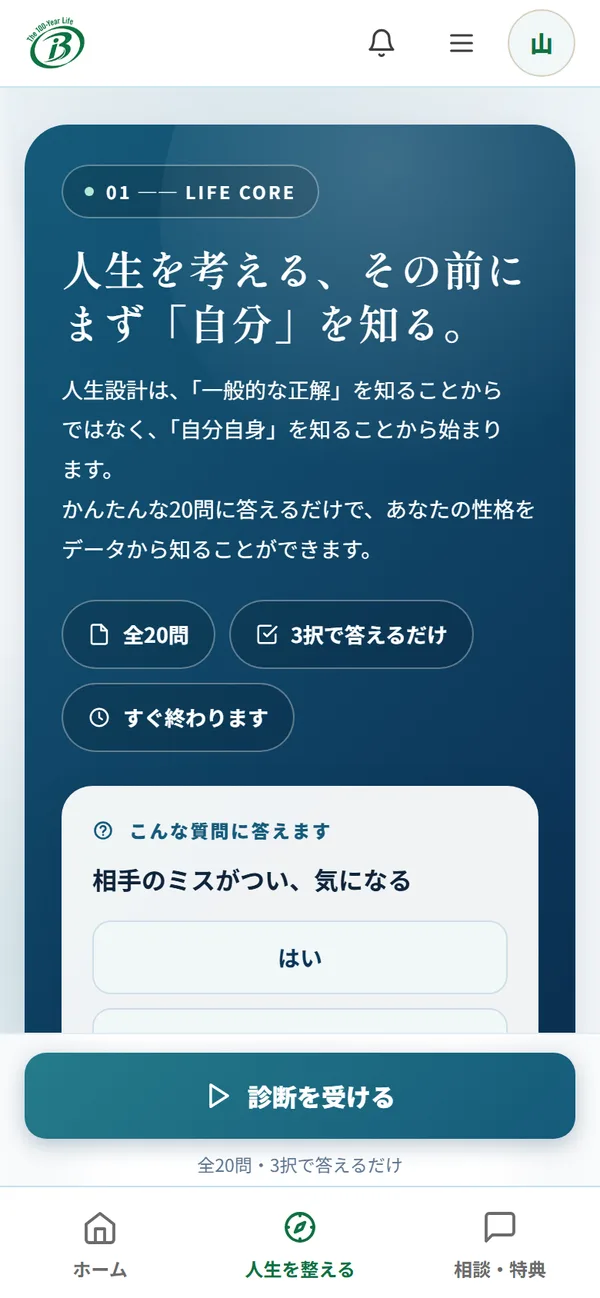
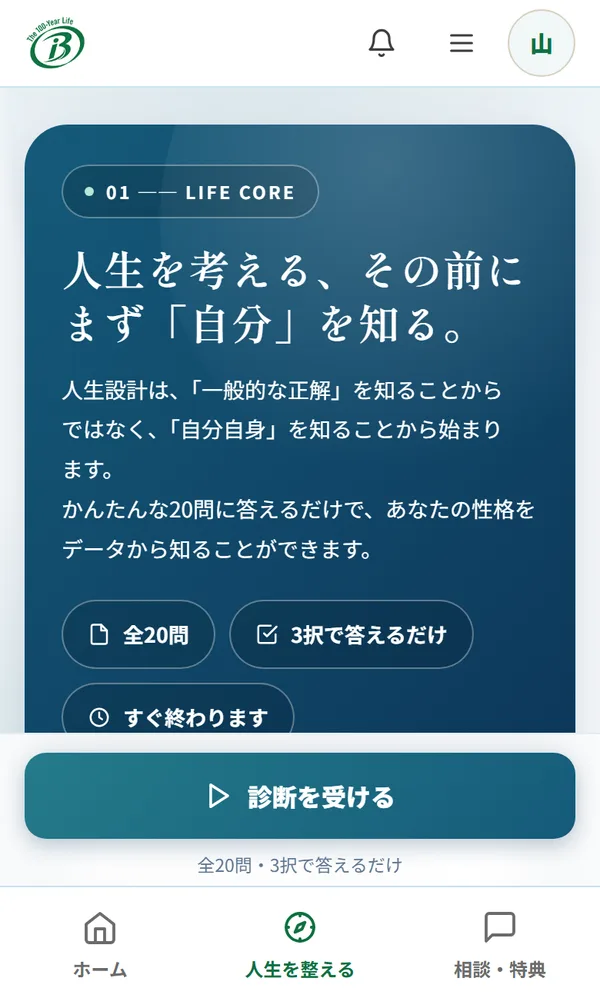
改善版: ご注意ブロックとディグラム診断の画面を削除・スマホ画面の縦横比を600x998に統一

diff --git a/v2/index.html b/v2/index.html
@@ -7,7 +7,7 @@
 <link href="https://fonts.googleapis.com/css2?family=Noto+Serif+JP:wght@500;600&amp;display=swap" rel="stylesheet"/>
 <link href="../style.css?v=2" rel="stylesheet"/>
 <link href="../enhance.css?v=18" rel="stylesheet"/>
-<link href="../journey.css?v=9" rel="stylesheet"/>
+<link href="../journey.css?v=10" rel="stylesheet"/>
 <script>document.documentElement.classList.add('js');setTimeout(function(){if(!window.__lj)document.documentElement.classList.remove('js')},2500)</script>
 <script defer="" src="../journey.js?v=1"></script>
 <script defer="" src="../script.js?v=3"></script>
@@ -60,7 +60,7 @@
 <ol class="journey-map"><li class="jm-item"><a class="jm-link" href="#core"><span class="jm-no">01</span><span class="jm-body"><small class="jm-en">LIFE CORE</small><strong class="jm-ja"><w-b>自分を</w-b><w-b>知る</w-b></strong><span class="jm-desc"><w-b>20の</w-b><w-b>質問で、</w-b><w-b>自分の</w-b><w-b>性格の</w-b><w-b>傾向を</w-b><w-b>知る</w-b></span></span></a></li><li class="jm-item"><a class="jm-link" href="#shift"><span class="jm-no">02</span><span class="jm-body"><small class="jm-en">LIFE SHIFT</small><strong class="jm-ja"><w-b>時代を</w-b><w-b>知る</w-b></strong><span class="jm-desc"><w-b>電子書籍と</w-b><w-b>年表で、</w-b><w-b>人生100年時代の</w-b><w-b>前提を</w-b><w-b>知る</w-b></span></span></a></li><li class="jm-item"><a class="jm-link" href="#event"><span class="jm-no">03</span><span class="jm-body"><small class="jm-en">LIFE Event Check</small><strong class="jm-ja"><w-b>未来を</w-b><w-b>描く</w-b></strong><span class="jm-desc"><w-b>家族の</w-b><w-b>年齢から、</w-b><w-b>これからの</w-b><w-b>出来事を</w-b><w-b>年表に</w-b><w-b>する</w-b></span></span></a></li><li class="jm-item"><a class="jm-link" href="#check"><span class="jm-no">04</span><span class="jm-body"><small class="jm-en">LIFE Check42</small><strong class="jm-ja"><w-b>備えを</w-b><w-b>確かめる</w-b></strong><span class="jm-desc"><w-b>6つの</w-b><w-b>テーマ・42問で、</w-b><w-b>今の</w-b><w-b>備えを</w-b><w-b>確かめる</w-b></span></span></a></li><li class="jm-item"><a class="jm-link" href="#academy"><span class="jm-no">05</span><span class="jm-body"><small class="jm-en">LIFE ACADEMY42 &amp; QUEST</small><strong class="jm-ja"><w-b>学び、</w-b><w-b>心に</w-b><w-b>残す</w-b></strong><span class="jm-desc"><w-b>動画で</w-b><w-b>知識を</w-b><w-b>学び、</w-b><w-b>物語で</w-b><w-b>心に</w-b><w-b>残す</w-b></span></span></a></li><li class="jm-item"><a class="jm-link" href="#roadmap"><span class="jm-no">06</span><span class="jm-body"><small class="jm-en">LIFE ROADMAP</small><strong class="jm-ja"><w-b>未来を</w-b><w-b>設計する</w-b></strong><span class="jm-desc"><w-b>願いと</w-b><w-b>学びを、</w-b><w-b>人生設計書に</w-b><w-b>まとめる</w-b></span></span></a></li><li class="jm-item"><a class="jm-link" href="#meeting"><span class="jm-no">07</span><span class="jm-body"><small class="jm-en">LIFE Meeting</small><strong class="jm-ja"><w-b>想いを</w-b><w-b>分かち合う</w-b></strong><span class="jm-desc"><w-b>見つけた</w-b><w-b>願いを、</w-b><w-b>大切な</w-b><w-b>人と</w-b><w-b>話す</w-b></span></span></a></li><li class="jm-item"><a class="jm-link" href="#consult"><span class="jm-no">08</span><span class="jm-body"><small class="jm-en">LIFE Consult</small><strong class="jm-ja"><w-b>必要な</w-b><w-b>力を</w-b><w-b>借りる</w-b></strong><span class="jm-desc"><w-b>住まいや</w-b><w-b>保険の</w-b><w-b>専門家に</w-b><w-b>相談する</w-b></span></span></a></li></ol>
 <p class="contents-note"><w-b>ミオ先生と</w-b><w-b>LIFE Recordが、</w-b><w-b>この</w-b><w-b>旅を</w-b><w-b>通してあなたの</w-b><w-b>気づきと</w-b><w-b>歩みを</w-b><w-b>支えます。</w-b></p><figure class="shot-panel"><div class="phones"><div class="phone"><img alt="会員ページの「人生を整える」画面" decoding="async" height="1298" loading="lazy" src="../shots/journey.webp" width="600"/></div></div><figcaption><w-b>会員ページの</w-b><w-b>「人生を</w-b><w-b>整える」画面。</w-b><w-b>8つの</w-b><w-b>ステップが</w-b><w-b>順に</w-b><w-b>並びます</w-b></figcaption></figure></section>
 <section class="chapter ch" id="core"><div class="ch-head"><p class="eyebrow">LIFE CORE</p><h2 data-fit="" style="--fit:6.899vw;--fit-cap:27px"><w-b>自分を</w-b><w-b>知ることは、</w-b><br/><w-b>自分の</w-b><w-b>人生を</w-b><w-b>選ぶ力に</w-b><w-b>なる。</w-b></h2><p class="pull ch-lead" data-fit="" style="--fit:5.608vw;--fit-cap:19px"><w-b>未来を</w-b><w-b>描く</w-b><w-b>前に、</w-b><br/><w-b>その</w-b><w-b>未来を</w-b><w-b>生きる</w-b><w-b>自分を</w-b><w-b>知ろう。</w-b></p></div><div class="chapter-visual screen-visual"><figure class="shot-panel"><div class="phones"><div class="phone"><img alt="LIFE CORE の画面" decoding="async" height="1298" loading="lazy" src="../shots/core.webp" width="600"/></div></div><figcaption><w-b>会員ページの</w-b><w-b>LIFE CORE画面</w-b></figcaption></figure><div class="photo-label"><span>01</span>
-<p>LIFE CORE</p></div></div><div class="ch-body"><div class="can"><p class="can-label"><w-b>できる</w-b><w-b>こと</w-b></p><ul><li><w-b>全20問・3択の</w-b><w-b>質問に</w-b><w-b>答えて、</w-b><w-b>性格の</w-b><w-b>傾向を</w-b><w-b>知る</w-b></li><li><w-b>結果を</w-b><w-b>読み、</w-b><w-b>しっくりくる所と</w-b><w-b>違う</w-b><w-b>所を</w-b><w-b>自分の</w-b><w-b>言葉で</w-b><w-b>確かめる</w-b></li><li><w-b>働き方や</w-b><w-b>人との</w-b><w-b>関わり方を</w-b><w-b>考える</w-b><w-b>手がかりに</w-b><w-b>する</w-b></li></ul></div><figure class="shot-panel"><div class="phones"><div class="phone"><img alt="ディグラム診断の質問画面" decoding="async" height="1298" loading="lazy" src="../shots/digram-sp.webp" width="600"/></div></div><figcaption><w-b>診断は</w-b><w-b>外部の</w-b><w-b>「ディグラム診断」で</w-b><w-b>受けます</w-b><w-b>（質問画面）</w-b></figcaption></figure><details class="more"><summary><span class="t-open"><w-b>詳しく</w-b><w-b>読む</w-b></span><span class="t-close"><w-b>閉じる</w-b></span></summary><div class="prose"><p><w-b>同じ</w-b><w-b>言葉に</w-b><w-b>励まされる</w-b><w-b>人も</w-b><w-b>いれば、</w-b><w-b>少し</w-b><w-b>苦しくなる</w-b><w-b>人も</w-b><w-b>います。</w-b><w-b>人と</w-b><w-b>話す</w-b><w-b>ことで</w-b><w-b>元気に</w-b><w-b>なる</w-b><w-b>日も、</w-b><w-b>一人で</w-b><w-b>静かに</w-b><w-b>考えたい</w-b><w-b>日も</w-b><w-b>あります。</w-b><w-b>あなたには、</w-b><w-b>あなたの</w-b><w-b>感じ方が</w-b><w-b>あります。</w-b></p><p><w-b>新しい</w-b><w-b>環境に</w-b><w-b>入ると、</w-b><w-b>周りに</w-b><w-b>合わせようと</w-b><w-b>頑張る</w-b><w-b>ことが</w-b><w-b>増えるかもしれません。</w-b><w-b>そんな</w-b><w-b>とき、</w-b><w-b>自分が</w-b><w-b>どんな</w-b><w-b>場面で</w-b><w-b>力を</w-b><w-b>発揮し、</w-b><w-b>どんな</w-b><w-b>ことに</w-b><w-b>無理を</w-b><w-b>しやすいかを</w-b><w-b>知っていると、</w-b><w-b>自分との</w-b><w-b>付き合い方を</w-b><w-b>考えやすくなります。</w-b></p><p><w-b>LIFE COREでは、</w-b><w-b>性格の</w-b><w-b>傾向を</w-b><w-b>示す波形と、</w-b><w-b>これまでの</w-b><w-b>経験を</w-b><w-b>手がかりに、</w-b><w-b>自分を</w-b><w-b>見つめます。</w-b><w-b>結果を</w-b><w-b>読んでしっくりくる</w-b><w-b>ところも、</w-b><w-b>違うと</w-b><w-b>感じる</w-b><w-b>ところも、</w-b><w-b>あなた</w-b><w-b>自身の</w-b><w-b>言葉で</w-b><w-b>確かめていきます。</w-b></p><p><w-b>「頼まれると</w-b><w-b>断れない」</w-b><w-b>「考えてから</w-b><w-b>動く</w-b><w-b>ほうが</w-b><w-b>安心する」</w-b><w-b>「誰かの</w-b><w-b>役に</w-b><w-b>立てると</w-b><w-b>うれしい」。</w-b><w-b>そうした</w-b><w-b>気づきは、</w-b><w-b>働き方、</w-b><w-b>人との</w-b><w-b>関わり方、</w-b><w-b>暮らし方を</w-b><w-b>選ぶ手がかりに</w-b><w-b>なります。</w-b><w-b>傾向は、</w-b><w-b>可能性を</w-b><w-b>決めつける</w-b><w-b>ものではありません。</w-b></p><p><w-b>自分を</w-b><w-b>理解する</w-b><w-b>ことは、</w-b><w-b>相手にも</w-b><w-b>自分と</w-b><w-b>違う</w-b><w-b>感じ方が</w-b><w-b>あると</w-b><w-b>気づく</w-b><w-b>入口です。</w-b><w-b>なぜ</w-b><w-b>伝わらないのだろうと</w-b><w-b>思った</w-b><w-b>とき、</w-b><w-b>相手の</w-b><w-b>受け取り方を</w-b><w-b>想像する</w-b><w-b>余地が</w-b><w-b>生まれます。</w-b></p><p><w-b>この</w-b><w-b>旅の</w-b><w-b>最初に、</w-b><w-b>自分の</w-b><w-b>声を</w-b><w-b>聞く。</w-b><w-b>そこに、</w-b><w-b>これから</w-b><w-b>何を</w-b><w-b>大切に</w-b><w-b>して</w-b><w-b>生きるかを</w-b><w-b>考える</w-b><w-b>土台が</w-b><w-b>あります。</w-b></p></div></details></div></section>
+<p>LIFE CORE</p></div></div><div class="ch-body"><div class="can"><p class="can-label"><w-b>できる</w-b><w-b>こと</w-b></p><ul><li><w-b>全20問・3択の</w-b><w-b>質問に</w-b><w-b>答えて、</w-b><w-b>性格の</w-b><w-b>傾向を</w-b><w-b>知る</w-b></li><li><w-b>結果を</w-b><w-b>読み、</w-b><w-b>しっくりくる所と</w-b><w-b>違う</w-b><w-b>所を</w-b><w-b>自分の</w-b><w-b>言葉で</w-b><w-b>確かめる</w-b></li><li><w-b>働き方や</w-b><w-b>人との</w-b><w-b>関わり方を</w-b><w-b>考える</w-b><w-b>手がかりに</w-b><w-b>する</w-b></li></ul></div><details class="more"><summary><span class="t-open"><w-b>詳しく</w-b><w-b>読む</w-b></span><span class="t-close"><w-b>閉じる</w-b></span></summary><div class="prose"><p><w-b>同じ</w-b><w-b>言葉に</w-b><w-b>励まされる</w-b><w-b>人も</w-b><w-b>いれば、</w-b><w-b>少し</w-b><w-b>苦しくなる</w-b><w-b>人も</w-b><w-b>います。</w-b><w-b>人と</w-b><w-b>話す</w-b><w-b>ことで</w-b><w-b>元気に</w-b><w-b>なる</w-b><w-b>日も、</w-b><w-b>一人で</w-b><w-b>静かに</w-b><w-b>考えたい</w-b><w-b>日も</w-b><w-b>あります。</w-b><w-b>あなたには、</w-b><w-b>あなたの</w-b><w-b>感じ方が</w-b><w-b>あります。</w-b></p><p><w-b>新しい</w-b><w-b>環境に</w-b><w-b>入ると、</w-b><w-b>周りに</w-b><w-b>合わせようと</w-b><w-b>頑張る</w-b><w-b>ことが</w-b><w-b>増えるかもしれません。</w-b><w-b>そんな</w-b><w-b>とき、</w-b><w-b>自分が</w-b><w-b>どんな</w-b><w-b>場面で</w-b><w-b>力を</w-b><w-b>発揮し、</w-b><w-b>どんな</w-b><w-b>ことに</w-b><w-b>無理を</w-b><w-b>しやすいかを</w-b><w-b>知っていると、</w-b><w-b>自分との</w-b><w-b>付き合い方を</w-b><w-b>考えやすくなります。</w-b></p><p><w-b>LIFE COREでは、</w-b><w-b>性格の</w-b><w-b>傾向を</w-b><w-b>示す波形と、</w-b><w-b>これまでの</w-b><w-b>経験を</w-b><w-b>手がかりに、</w-b><w-b>自分を</w-b><w-b>見つめます。</w-b><w-b>結果を</w-b><w-b>読んでしっくりくる</w-b><w-b>ところも、</w-b><w-b>違うと</w-b><w-b>感じる</w-b><w-b>ところも、</w-b><w-b>あなた</w-b><w-b>自身の</w-b><w-b>言葉で</w-b><w-b>確かめていきます。</w-b></p><p><w-b>「頼まれると</w-b><w-b>断れない」</w-b><w-b>「考えてから</w-b><w-b>動く</w-b><w-b>ほうが</w-b><w-b>安心する」</w-b><w-b>「誰かの</w-b><w-b>役に</w-b><w-b>立てると</w-b><w-b>うれしい」。</w-b><w-b>そうした</w-b><w-b>気づきは、</w-b><w-b>働き方、</w-b><w-b>人との</w-b><w-b>関わり方、</w-b><w-b>暮らし方を</w-b><w-b>選ぶ手がかりに</w-b><w-b>なります。</w-b><w-b>傾向は、</w-b><w-b>可能性を</w-b><w-b>決めつける</w-b><w-b>ものではありません。</w-b></p><p><w-b>自分を</w-b><w-b>理解する</w-b><w-b>ことは、</w-b><w-b>相手にも</w-b><w-b>自分と</w-b><w-b>違う</w-b><w-b>感じ方が</w-b><w-b>あると</w-b><w-b>気づく</w-b><w-b>入口です。</w-b><w-b>なぜ</w-b><w-b>伝わらないのだろうと</w-b><w-b>思った</w-b><w-b>とき、</w-b><w-b>相手の</w-b><w-b>受け取り方を</w-b><w-b>想像する</w-b><w-b>余地が</w-b><w-b>生まれます。</w-b></p><p><w-b>この</w-b><w-b>旅の</w-b><w-b>最初に、</w-b><w-b>自分の</w-b><w-b>声を</w-b><w-b>聞く。</w-b><w-b>そこに、</w-b><w-b>これから</w-b><w-b>何を</w-b><w-b>大切に</w-b><w-b>して</w-b><w-b>生きるかを</w-b><w-b>考える</w-b><w-b>土台が</w-b><w-b>あります。</w-b></p></div></details></div></section>
 <section class="chapter ch" id="shift"><div class="ch-head"><p class="eyebrow">LIFE SHIFT</p><h2 data-fit="" style="--fit:7.802vw;--fit-cap:27px"><w-b>大切な</w-b><w-b>想いを、</w-b><br/><w-b>これからの</w-b><w-b>時代に</w-b><w-b>つなぐ。</w-b></h2><p class="pull ch-lead"><w-b>これまでの</w-b><w-b>「当たり前」を</w-b><w-b>確かめる</w-b><w-b>ことが、</w-b><br/><w-b>これからの</w-b><w-b>可能性を</w-b><w-b>広げていく。</w-b></p></div><div class="chapter-visual screen-visual"><figure class="shot-panel"><div class="phones"><div class="phone"><img alt="LIFE SHIFT の画面" decoding="async" height="1298" loading="lazy" src="../shots/shift.webp" width="600"/></div></div><figcaption><w-b>会員ページの</w-b><w-b>LIFE SHIFT画面。</w-b><w-b>電子書籍と</w-b><w-b>年表の</w-b><w-b>2つを</w-b><w-b>読めます</w-b></figcaption></figure><div class="photo-label"><span>02</span>
 <p>LIFE SHIFT</p></div></div><div class="ch-body"><div class="can"><p class="can-label"><w-b>できる</w-b><w-b>こと</w-b></p><ul><li><w-b>電子書籍</w-b><w-b>『LIFE SHIFT』</w-b><w-b>（全9章＋エピローグ）を</w-b><w-b>読む</w-b></li><li><w-b>人生80年時代と</w-b><w-b>100年時代の</w-b><w-b>年表を</w-b><w-b>見くらべる</w-b></li><li><w-b>自分の</w-b><w-b>前提を</w-b><w-b>見直し、</w-b><w-b>これから</w-b><w-b>調べたい</w-b><w-b>問いを</w-b><w-b>見つける</w-b></li></ul></div><details class="more"><summary><span class="t-open"><w-b>詳しく</w-b><w-b>読む</w-b></span><span class="t-close"><w-b>閉じる</w-b></span></summary><div class="prose"><p><w-b>「こう</w-b><w-b>しておけば</w-b><w-b>安心だよ」。</w-b><w-b>家族や</w-b><w-b>身近な</w-b><w-b>大人から、</w-b><w-b>そんな</w-b><w-b>言葉を</w-b><w-b>受け取ってきたかもしれません。</w-b><w-b>その</w-b><w-b>言葉には、</w-b><w-b>あなたに</w-b><w-b>幸せに</w-b><w-b>なってほしいという</w-b><w-b>願いが</w-b><w-b>込められていたはずです。</w-b></p><p><w-b>その</w-b><w-b>願いを</w-b><w-b>大切に</w-b><w-b>しながら、</w-b><w-b>方法は</w-b><w-b>今の</w-b><w-b>暮らしに</w-b><w-b>照らして</w-b><w-b>考える</w-b><w-b>必要が</w-b><w-b>あります。</w-b><w-b>働き方、</w-b><w-b>暮らしに</w-b><w-b>かかる</w-b><w-b>お金、</w-b><w-b>家族の</w-b><w-b>あり方。</w-b><w-b>そして、</w-b><w-b>人生の</w-b><w-b>後半に</w-b><w-b>どんな</w-b><w-b>時間を</w-b><w-b>過ごすのか。</w-b><w-b>自分が</w-b><w-b>生きる</w-b><w-b>条件を</w-b><w-b>知ることが、</w-b><w-b>未来の</w-b><w-b>準備に</w-b><w-b>つながります。</w-b></p><p><w-b>LIFE SHIFTは、</w-b><w-b>人生100年時代という</w-b><w-b>長い</w-b><w-b>時間軸から、</w-b><w-b>自分の</w-b><w-b>前提を</w-b><w-b>見直す</w-b><w-b>機会です。</w-b><w-b>学校を</w-b><w-b>出て、</w-b><w-b>働いて、</w-b><w-b>退職する。</w-b><w-b>その</w-b><w-b>先にも</w-b><w-b>続く</w-b><w-b>人生まで、</w-b><w-b>視野を</w-b><w-b>広げていきます。</w-b></p><p><w-b>「周りも</w-b><w-b>そうしているから」</w-b><w-b>「いつか</w-b><w-b>何とか</w-b><w-b>なるから」。</w-b><w-b>普段は</w-b><w-b>立ち止まらない</w-b><w-b>考え方に</w-b><w-b>ついて、</w-b><w-b>今の</w-b><w-b>自分にも</w-b><w-b>合うだろうかと</w-b><w-b>問い直してみる。</w-b><w-b>分からない</w-b><w-b>ことは、</w-b><w-b>これから</w-b><w-b>調べる</w-b><w-b>問いに</w-b><w-b>してかまいません。</w-b></p><p><w-b>早く</w-b><w-b>気づけば、</w-b><w-b>少し</w-b><w-b>ずつ準備する</w-b><w-b>時間を</w-b><w-b>持てます。</w-b><w-b>学ぶこと、</w-b><w-b>習慣を</w-b><w-b>整える</w-b><w-b>こと、</w-b><w-b>誰かに</w-b><w-b>相談する</w-b><w-b>こと。</w-b><w-b>今日の</w-b><w-b>小さな</w-b><w-b>選択を、</w-b><w-b>未来の</w-b><w-b>自分の</w-b><w-b>ために</w-b><w-b>使えるようになります。</w-b></p><p><w-b>時代を</w-b><w-b>知るのは、</w-b><w-b>自分の</w-b><w-b>願いを</w-b><w-b>実現する</w-b><w-b>ためです。</w-b><w-b>受け継いだ愛情を、</w-b><w-b>これからの</w-b><w-b>自分に</w-b><w-b>合った</w-b><w-b>選び方へ</w-b><w-b>つないで</w-b><w-b>いきましょう。</w-b></p></div></details></div></section>
 <section class="chapter ch" id="event"><div class="ch-head"><p class="eyebrow">LIFE Event Check</p><h2><w-b>未来に、</w-b><w-b>楽しみに</w-b><w-b>できる</w-b><br/><w-b>場面を</w-b><w-b>置いてみよう。</w-b></h2><p class="pull ch-lead" data-fit="" style="--fit:4.674vw;--fit-cap:19px"><w-b>未来を</w-b><w-b>思い描く</w-b><w-b>ことは、</w-b><br/><w-b>今日を</w-b><w-b>大切に</w-b><w-b>する</w-b><w-b>理由を</w-b><w-b>見つける</w-b><w-b>こと。</w-b></p></div><div class="chapter-visual screen-visual"><figure class="shot-panel pair"><div class="phones"><div class="phone"><img alt="LIFE Event Check の入力画面" decoding="async" height="1298" loading="lazy" src="../shots/event-input.webp" width="600"/></div><div class="phone"><img alt="LIFE Event Check の年表" decoding="async" height="1298" loading="lazy" src="../shots/event-timeline.webp" width="600"/></div></div><figcaption><w-b>LIFE Event Checkの</w-b><w-b>入力画面と</w-b><w-b>年表。</w-b><w-b>家族の</w-b><w-b>年齢を</w-b><w-b>入れると</w-b><w-b>年表が</w-b><w-b>できます</w-b><w-b>（表示は</w-b><w-b>入力例です）</w-b></figcaption></figure><div class="photo-label"><span>03</span>
@@ -109,11 +109,6 @@
 <div class="mio-card"><h3><w-b>ミオ先生に</w-b><w-b>相談できる</w-b><w-b>こと</w-b></h3><ul>
 <li><w-b>診断結果の</w-b><w-b>言葉の</w-b><w-b>意味</w-b></li><li><w-b>家計の</w-b><w-b>見直しを、</w-b><w-b>どこから</w-b><w-b>始めるか</w-b></li>
 <li><w-b>どの</w-b><w-b>動画から</w-b><w-b>学ぶか</w-b></li><li><w-b>家族に</w-b><w-b>どう</w-b><w-b>話すか</w-b></li></ul></div>
-<div class="mio-card note"><h3><w-b>ご注意</w-b></h3><ul>
-<li><w-b>ミオ先生は</w-b><w-b>外部の</w-b><w-b>生成AIサービス</w-b><w-b>（ChatGPT）で</w-b><w-b>動いています。</w-b><w-b>氏名・住所・</w-b><w-b>電話番号・</w-b><w-b>口座番号は</w-b><w-b>入力せず、</w-b><w-b>「40代・共働き・子ども</w-b><w-b>2人」のように</w-b><w-b>条件だけを</w-b><w-b>伝えてください。</w-b></li>
-<li><w-b>ミオ先生は</w-b><w-b>AIの</w-b><w-b>案内役です。</w-b><w-b>契約や</w-b><w-b>手続きの</w-b><w-b>具体的な</w-b><w-b>相談は、</w-b><w-b>専門の</w-b><w-b>窓口の</w-b><w-b>担当者が</w-b><w-b>受けます。</w-b></li>
-<li><w-b>診断や</w-b><w-b>学びの</w-b><w-b>内容は、</w-b><w-b>ご自身で</w-b><w-b>決める</w-b><w-b>ための</w-b><w-b>材料です。</w-b><w-b>特定の</w-b><w-b>商品の</w-b><w-b>購入や</w-b><w-b>契約を</w-b><w-b>すすめる</w-b><w-b>ものではありません。</w-b></li>
-</ul></div>
 </div>
 </div></section>
 <section class="faq section" id="faq">

diff --git a/journey.css b/journey.css
@@ -252,3 +252,5 @@ details.more>.prose{padding:6px 0 26px}
   .screen-visual .phone{max-height:calc(100svh - 330px)}
   .screen-visual .phone img{height:100%;object-fit:cover;object-position:top}
 }
+/* ご注意を外したので、ミオ先生のカードは1枚 */
+.mio-grid{grid-template-columns:minmax(0,560px)}
